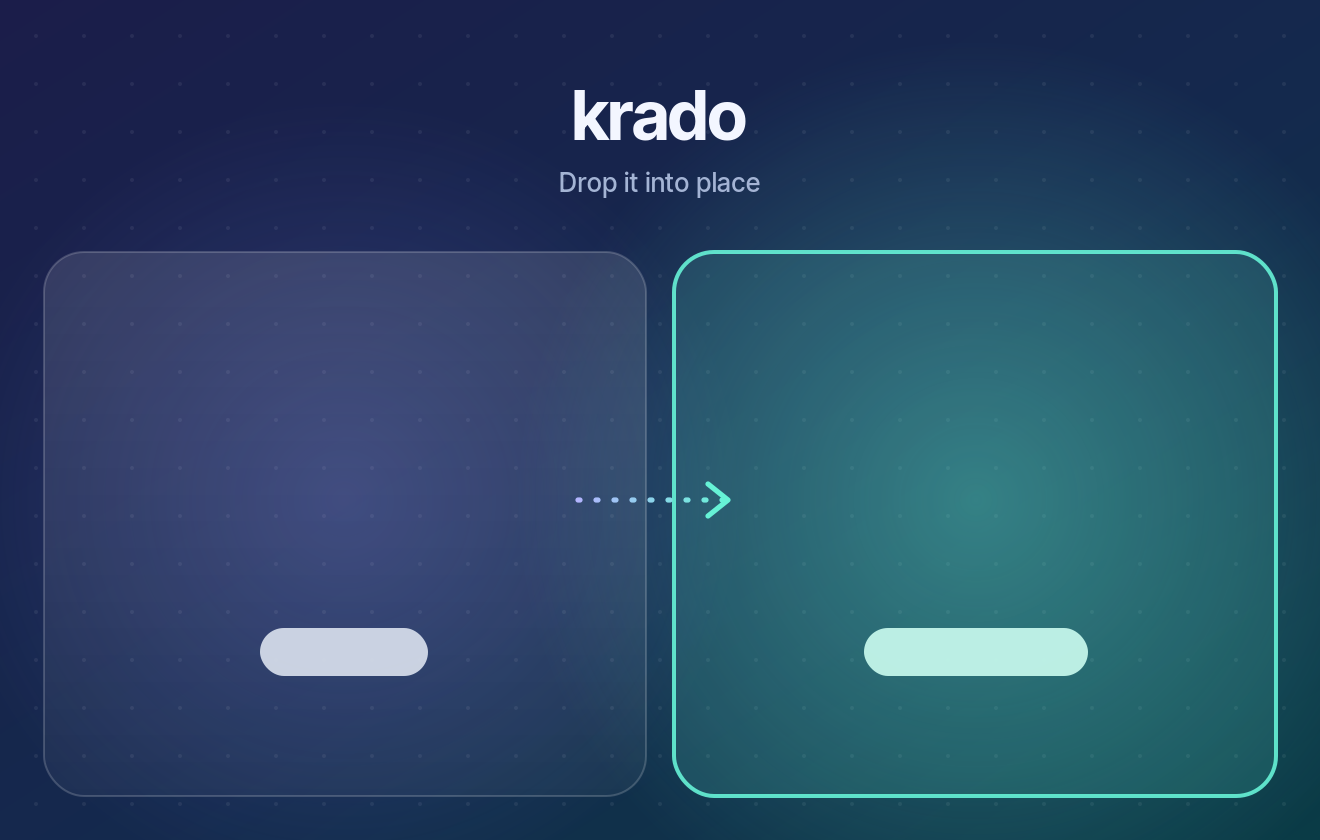
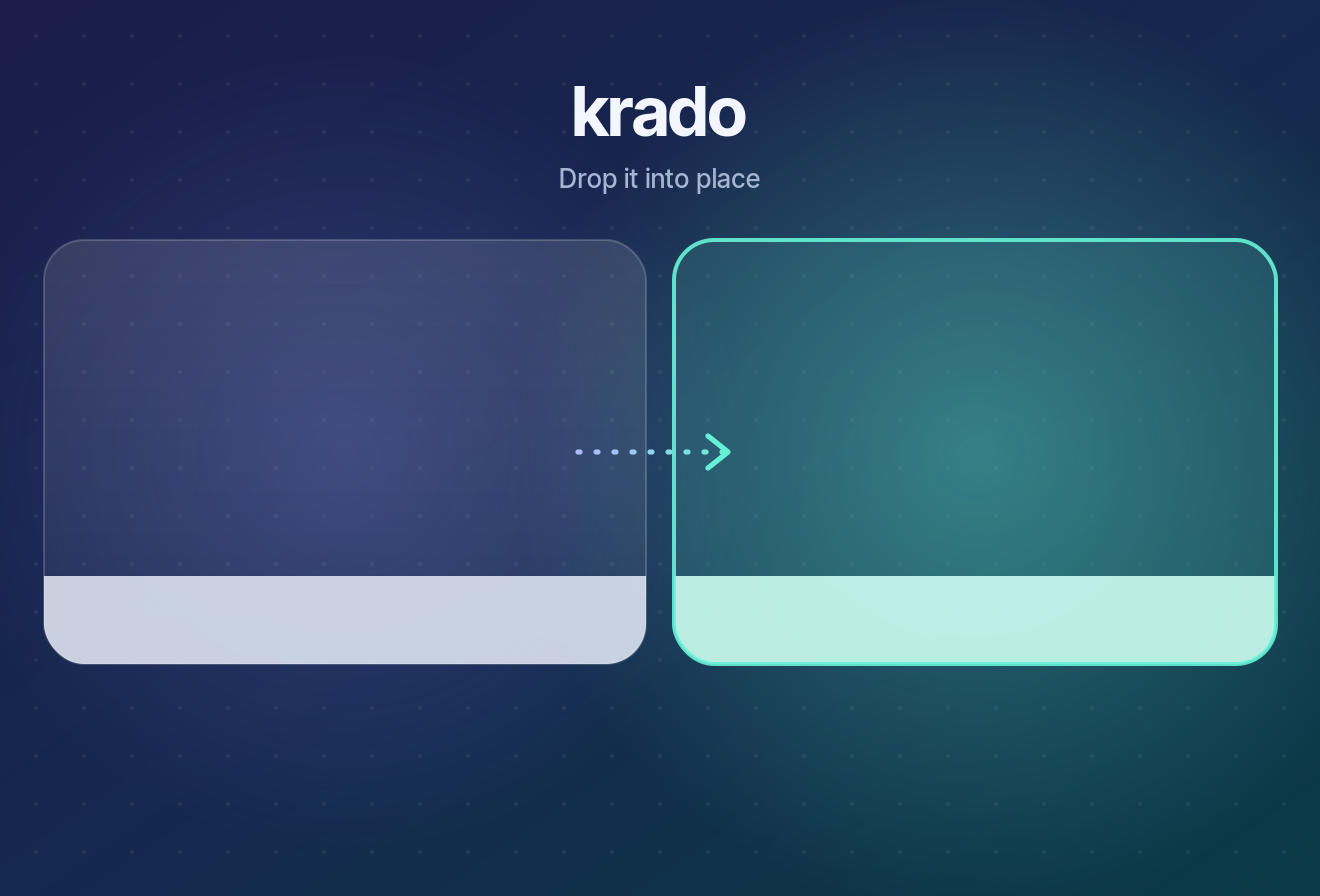
dmg: install window no longer cut off with Finder's Path Bar / Status Bar (32 pt title bar, bottom 56 pt free, label band instead of chips, geometry check); Release workflow renders the built DMG in real Finder (macos-15/26) before any draft

Changed region(s): [[0.0311, 0.5571, 0.9939, 0.9595], [0.0311, 0.0929, 0.9939, 0.3405], [0.528, 0.4952, 0.5591, 0.5262]]

diff --git a/packaging/dmg/render/finder-windows.swift b/packaging/dmg/render/finder-windows.swift
@@ -1,0 +1,13 @@
+// Prints "id x y width height name" for each on-screen Finder window (CI runner only).
+import CoreGraphics
+import Foundation
+
+let options: CGWindowListOption = [.optionOnScreenOnly, .excludeDesktopElements]
+let list = (CGWindowListCopyWindowInfo(options, kCGNullWindowID) as? [[String: Any]]) ?? []
+for w in list where (w[kCGWindowOwnerName as String] as? String) == "Finder"
+    && (w[kCGWindowLayer as String] as? Int) == 0 {
+    guard let id = w[kCGWindowNumber as String] as? Int,
+          let b = w[kCGWindowBounds as String] as? [String: CGFloat] else { continue }
+    let name = (w[kCGWindowName as String] as? String) ?? ""
+    print(id, Int(b["X"] ?? 0), Int(b["Y"] ?? 0), Int(b["Width"] ?? 0), Int(b["Height"] ?? 0), name)
+}

diff --git a/packaging/dmg/make_backgrounds.py b/packaging/dmg/make_backgrounds.py
@@ -4,43 +4,69 @@
 Run on any machine with cairosvg (the committed PNGs are what CI uses, so the
 release runner needs no SVG renderer or fonts):
     python3 packaging/dmg/make_backgrounds.py
+    python3 packaging/dmg/make_backgrounds.py --check   # geometry only (CI)
 Geometry is shared with packaging/dmg/settings.py via layout.json.
 """
 import json
 import pathlib
-
-import cairosvg
+import sys
 
 HERE = pathlib.Path(__file__).resolve().parent
 L = json.loads((HERE / "layout.json").read_text())
 W, H = L["window"]["width"], L["window"]["height"]
 (AX, AY), (BX, BY) = L["app"], L["applications"]
 ICON = L["icon_size"]
+# Finder draws the label (and the user's "Show all filename extensions") wherever its
+# macOS version puts it, and View > Show Path Bar / Show Status Bar are global Finder
+# preferences that .DS_Store cannot switch off. So: no tight chips, a wide band
+# under each icon instead, and nothing drawn in the bottom BARS_RESERVE pt.
+BAND_TOP, BAND_BOTTOM = AY + L["label_band"][0], AY + L["label_band"][1]
+CARD_BOTTOM = BAND_BOTTOM
+BARS_RESERVE, SCROLL_MARGIN = L["bars_reserve"], L["scroll_margin"]
+# The PNG is taller than the window content so a slightly shorter title bar on another
+# macOS version shows more of the same gradient, never an empty strip.
+HI = H + L["bleed"]
+
+
+def check_geometry():
+    # Label measured on macOS 26 (v0.1.0 report): icon centre + 77 ... + 90 pt.
+    label_bottom = AY + 90
+    assert BAND_TOP <= AY + 77 - 8 and BAND_BOTTOM >= label_bottom + 12, "label band too tight"
+    # With both bars on, the visible content is H - BARS_RESERVE. Finder shows a scroll
+    # bar once the items (plus about 36 pt) reach past it.
+    assert label_bottom + SCROLL_MARGIN <= H - BARS_RESERVE, "items reach under the bars"
+    assert CARD_BOTTOM <= H - BARS_RESERVE - 8, "art reaches under the bars"
 
 FONT = "Inter Tight, Inter, Helvetica Neue, sans-serif"
 
 
-def label_chip(cx, cy, w, fill, opacity):
-    # With a background picture Finder always draws icon labels in black (Light and
-    # Dark mode alike), and .DS_Store cannot change that. On a dark design a light
-    # chip under each label keeps it readable.
-    return (f'<rect x="{cx - w / 2}" y="{cy - 12}" width="{w}" height="24" rx="12" '
-            f'fill="{fill}" fill-opacity="{opacity}"/>')
+def card(cid, x, top, w, rx, body, band_fill, band_opacity, stroke):
+    # A card whose bottom part is a light label band, clipped to the card's rounded
+    # corners. With a background picture Finder always draws icon labels in black
+    # (Light and Dark mode alike), and .DS_Store cannot change that; the band is as
+    # wide as the card and about 3 label heights tall, so the label stays on it
+    # wherever Finder puts it.
+    h = CARD_BOTTOM - top
+    band = ""
+    if band_fill:
+        band = (f'<clipPath id="{cid}"><rect x="{x}" y="{top}" width="{w}" height="{h}" rx="{rx}"/></clipPath>'
+                f'<rect x="{x}" y="{BAND_TOP}" width="{w}" height="{CARD_BOTTOM - BAND_TOP}" fill="{band_fill}" '
+                f'fill-opacity="{band_opacity}" clip-path="url(#{cid})"/>')
+    return (f'<rect x="{x}" y="{top}" width="{w}" height="{h}" rx="{rx}" {body}/>{band}'
+            f'<rect x="{x}" y="{top}" width="{w}" height="{h}" rx="{rx}" fill="none" {stroke}/>')
 
 
 def style_b():
     # krado's own overlay as the motif: the window is split into two zones like a
     # 2 x 1 grid; the app rests in one, Applications glows as the snap target.
-    m, g, top = 22, 14, 126
+    m, g, top = 22, 14, 120
     zw = (W - 2 * m - g) / 2
     zl, zr = m, m + zw + g
-    zh = H - top - m
     x0, x1 = zl + zw - 34, zr + 26
-    ly = AY + 76
     dots = "".join(
         f'<circle cx="{x}" cy="{y}" r="1" fill="#ffffff" fill-opacity="0.07"/>'
-        for x in range(18, W, 24) for y in range(18, H, 24))
-    return f"""<svg xmlns="http://www.w3.org/2000/svg" width="{W}" height="{H}" viewBox="0 0 {W} {H}">
+        for x in range(18, W, 24) for y in range(18, HI, 24))
+    return f"""<svg xmlns="http://www.w3.org/2000/svg" width="{W}" height="{HI}" viewBox="0 0 {W} {HI}">
   <defs>
     <linearGradient id="bg" x1="0" y1="0" x2="1" y2="1">
       <stop offset="0" stop-color="#1b1d4a"/><stop offset="0.55" stop-color="#14294d"/><stop offset="1" stop-color="#0a3b46"/>
@@ -58,17 +84,16 @@ def style_b():
       <stop offset="0" stop-color="#b3b5ff"/><stop offset="1" stop-color="#66f2d6"/>
     </linearGradient>
   </defs>
-  <rect width="{W}" height="{H}" fill="url(#bg)"/>
+  <rect width="{W}" height="{HI}" fill="url(#bg)"/>
   {dots}
-  <rect width="{W}" height="{H}" fill="url(#glowL)"/>
-  <rect width="{W}" height="{H}" fill="url(#glow)"/>
-  <rect x="{zl}" y="{top}" width="{zw}" height="{zh}" rx="20" fill="url(#glass)" stroke="#ffffff" stroke-opacity="0.18"/>
-  <rect x="{zr}" y="{top}" width="{zw}" height="{zh}" rx="20" fill="#66f2d6" fill-opacity="0.13"
-        stroke="#66f2d6" stroke-opacity="0.9" stroke-width="2"/>
-  {label_chip(AX, ly, 84, "#d7deec", 0.92)}{label_chip(BX, ly, 112, "#c2f5e9", 0.95)}
-  <text x="{W/2}" y="70" text-anchor="middle" font-family="{FONT}" font-size="34" font-weight="700"
+  <rect width="{W}" height="{HI}" fill="url(#glowL)"/>
+  <rect width="{W}" height="{HI}" fill="url(#glow)"/>
+  {card("cl", zl, top, zw, 20, 'fill="url(#glass)"', "#d7deec", 0.92, 'stroke="#ffffff" stroke-opacity="0.18"')}
+  {card("cr", zr, top, zw, 20, 'fill="#66f2d6" fill-opacity="0.13"', "#c2f5e9", 0.95,
+        'stroke="#66f2d6" stroke-opacity="0.9" stroke-width="2"')}
+  <text x="{W/2}" y="68" text-anchor="middle" font-family="{FONT}" font-size="34" font-weight="700"
         letter-spacing="-0.6" fill="#f3f6ff">krado</text>
-  <text x="{W/2}" y="96" text-anchor="middle" font-family="{FONT}" font-size="13" font-weight="500"
+  <text x="{W/2}" y="94" text-anchor="middle" font-family="{FONT}" font-size="13" font-weight="500"
         letter-spacing="0.2" fill="#a4b4d4">Drop it into place</text>
   <path d="M {x0} {AY} L {x1} {AY}" fill="none" stroke="url(#dash)" stroke-width="2.6" stroke-linecap="round"
         stroke-dasharray="1 8"/>
@@ -78,14 +103,19 @@ def style_b():
 
 
 def main():
+    check_geometry()
+    if "--check" in sys.argv:  # CI: geometry only, standard library only
+        print("DMG geometry OK")
+        return
+    import cairosvg
     for name, svg in (("B", style_b()),):
         out = HERE / name
         out.mkdir(exist_ok=True)
         (out / "background.svg").write_text(svg)
-        cairosvg.svg2png(bytestring=svg.encode(), write_to=str(out / "background.png"), output_width=W, output_height=H)
+        cairosvg.svg2png(bytestring=svg.encode(), write_to=str(out / "background.png"), output_width=W, output_height=HI)
         cairosvg.svg2png(bytestring=svg.encode(), write_to=str(out / "background@2x.png"),
-                         output_width=W * 2, output_height=H * 2)
-        print(f"{name}: {out}/background.png, background@2x.png ({W}x{H} pt)")
+                         output_width=W * 2, output_height=HI * 2)
+        print(f"{name}: {out}/background.png, background@2x.png ({W}x{HI} pt, window content {W}x{H})")
 
 
 if __name__ == "__main__":

diff --git a/packaging/dmg/settings.py b/packaging/dmg/settings.py
@@ -20,13 +20,18 @@ icon = defines["volume_icon"]  # noqa: F821
 
 # background.png + background@2x.png are combined into one HiDPI TIFF by dmgbuild.
 background = os.path.join(here, style, "background.png")
+# Finder honours toolbar and sidebar per window, but View > Show Path Bar / Show
+# Status Bar (and "Show all filename extensions") are the user's global preferences:
+# the false values below are ignored when the user has them on. The background keeps
+# its bottom layout["bars_reserve"] pt free of art for that case (make_backgrounds.py).
 show_status_bar = False
 show_tab_view = False
 show_toolbar = False
 show_pathbar = False
 show_sidebar = False
-# window_rect height is the whole window; Finder's title bar takes about 28 pt.
-window_rect = ((200, 640), (w, h + 28))
+# window_rect is the whole window frame: the title bar is 32 pt on macOS 26 (measured
+# from v0.1.0, which assumed 28 pt). The background PNG is h + bleed tall.
+window_rect = ((200, 640), (w, h + layout["titlebar"]))
 default_view = "icon-view"
 show_icon_preview = False
 include_icon_view_settings = True

diff --git a/packaging/dmg/README.md b/packaging/dmg/README.md
@@ -3,13 +3,26 @@
 The window that opens with `krado-<version>.dmg` (style B: krado's zones, the app
 in one cell, Applications glowing as the mint snap target).
 
-- `layout.json`: shared geometry (660 × 420 pt content, 128 pt icons, icon centres).
+- `layout.json`: shared geometry (660 × 432 pt content plus a 32 pt title bar, 128 pt
+  icons, icon centres, the label band, and the bottom 56 pt kept free of art).
 - `make_backgrounds.py`: draws the background as SVG and renders 1x + @2x PNGs
-  (`pip install cairosvg`). The PNGs are committed, so CI needs no renderer or fonts.
+  (`pip install cairosvg`). The PNGs are committed, so CI needs no renderer or fonts;
+  `--check` only asserts the geometry below (standard library, run by the Release workflow).
 - `settings.py`: the dmgbuild layout. `scripts/make-dmg.sh` uses it by default
   (`DMG_STYLE=B`); `DMG_STYLE=plain` builds the old plain window.
 - `requirements.txt`: dmgbuild and its two dependencies, pinned with hashes. Installed
   into `.build/dmgbuild-venv` on the build machine only; nothing is installed for users.
 - The colours are part of the image: Finder shows a static picture, so the window
   cannot follow the user's accent colour. With a background picture Finder always
-  draws icon labels in black, so each label sits on a light chip.
+  draws icon labels in black, so each card ends in a wide light band the label sits on.
+- Finder ignores the DMG for some settings: View > Show Path Bar / Show Status Bar and
+  "Show all filename extensions" are the user's global preferences, and the label
+  position and title bar height change between macOS versions (v0.1.0's window, sized
+  for a 28 pt title bar with label-sized chips, was cut off with a scroll bar). So the
+  design keeps the bottom 56 pt free of art, keeps the items far enough up that no
+  scroll bar appears with both bars on, and uses a band instead of a label-sized chip.
+- `render/render-dmg.sh` (CI runner only, never on a personal Mac): opens a DMG in
+  Finder and screenshots the real window with default preferences and with both bars
+  and extensions on. The Release workflow's `render` job runs it on macos-15 and
+  macos-26 for every DMG it builds (artifacts `render-<os>`); a draft release is only
+  created after it passes. Look at the PNGs before publishing.

diff --git a/CHANGELOG.ja.md b/CHANGELOG.ja.md
@@ -10,6 +10,10 @@ krado の主な変更を記録します。
 
 ## [Unreleased]
 
+### 修正
+
+- DMG を開いたときのインストール画面で、Finder のパスバーやステータスバーを表示していても、下が切れたりスクロールバーが出たりしないようにしました。「krado」と「Applications」の名前も、拡張子を表示している場合を含めて、明るい帯の上にきれいに収まるようにしました。
+
 ## [0.1.0] - 2026-10-20
 
 ### 追加

diff --git a/CHANGELOG.md b/CHANGELOG.md
@@ -8,6 +8,10 @@ and this project follows [Semantic Versioning](https://semver.org/spec/v2.0.0.ht
 
 ## [Unreleased]
 
+### Fixed
+
+- The install window that opens with the DMG is no longer cut off at the bottom and no longer shows a scroll bar when Finder's Path Bar or Status Bar is turned on, and the "krado" and "Applications" labels now sit cleanly on their light bands (also with filename extensions shown).
+
 ## [0.1.0] - 2026-10-20
 
 ### Added
